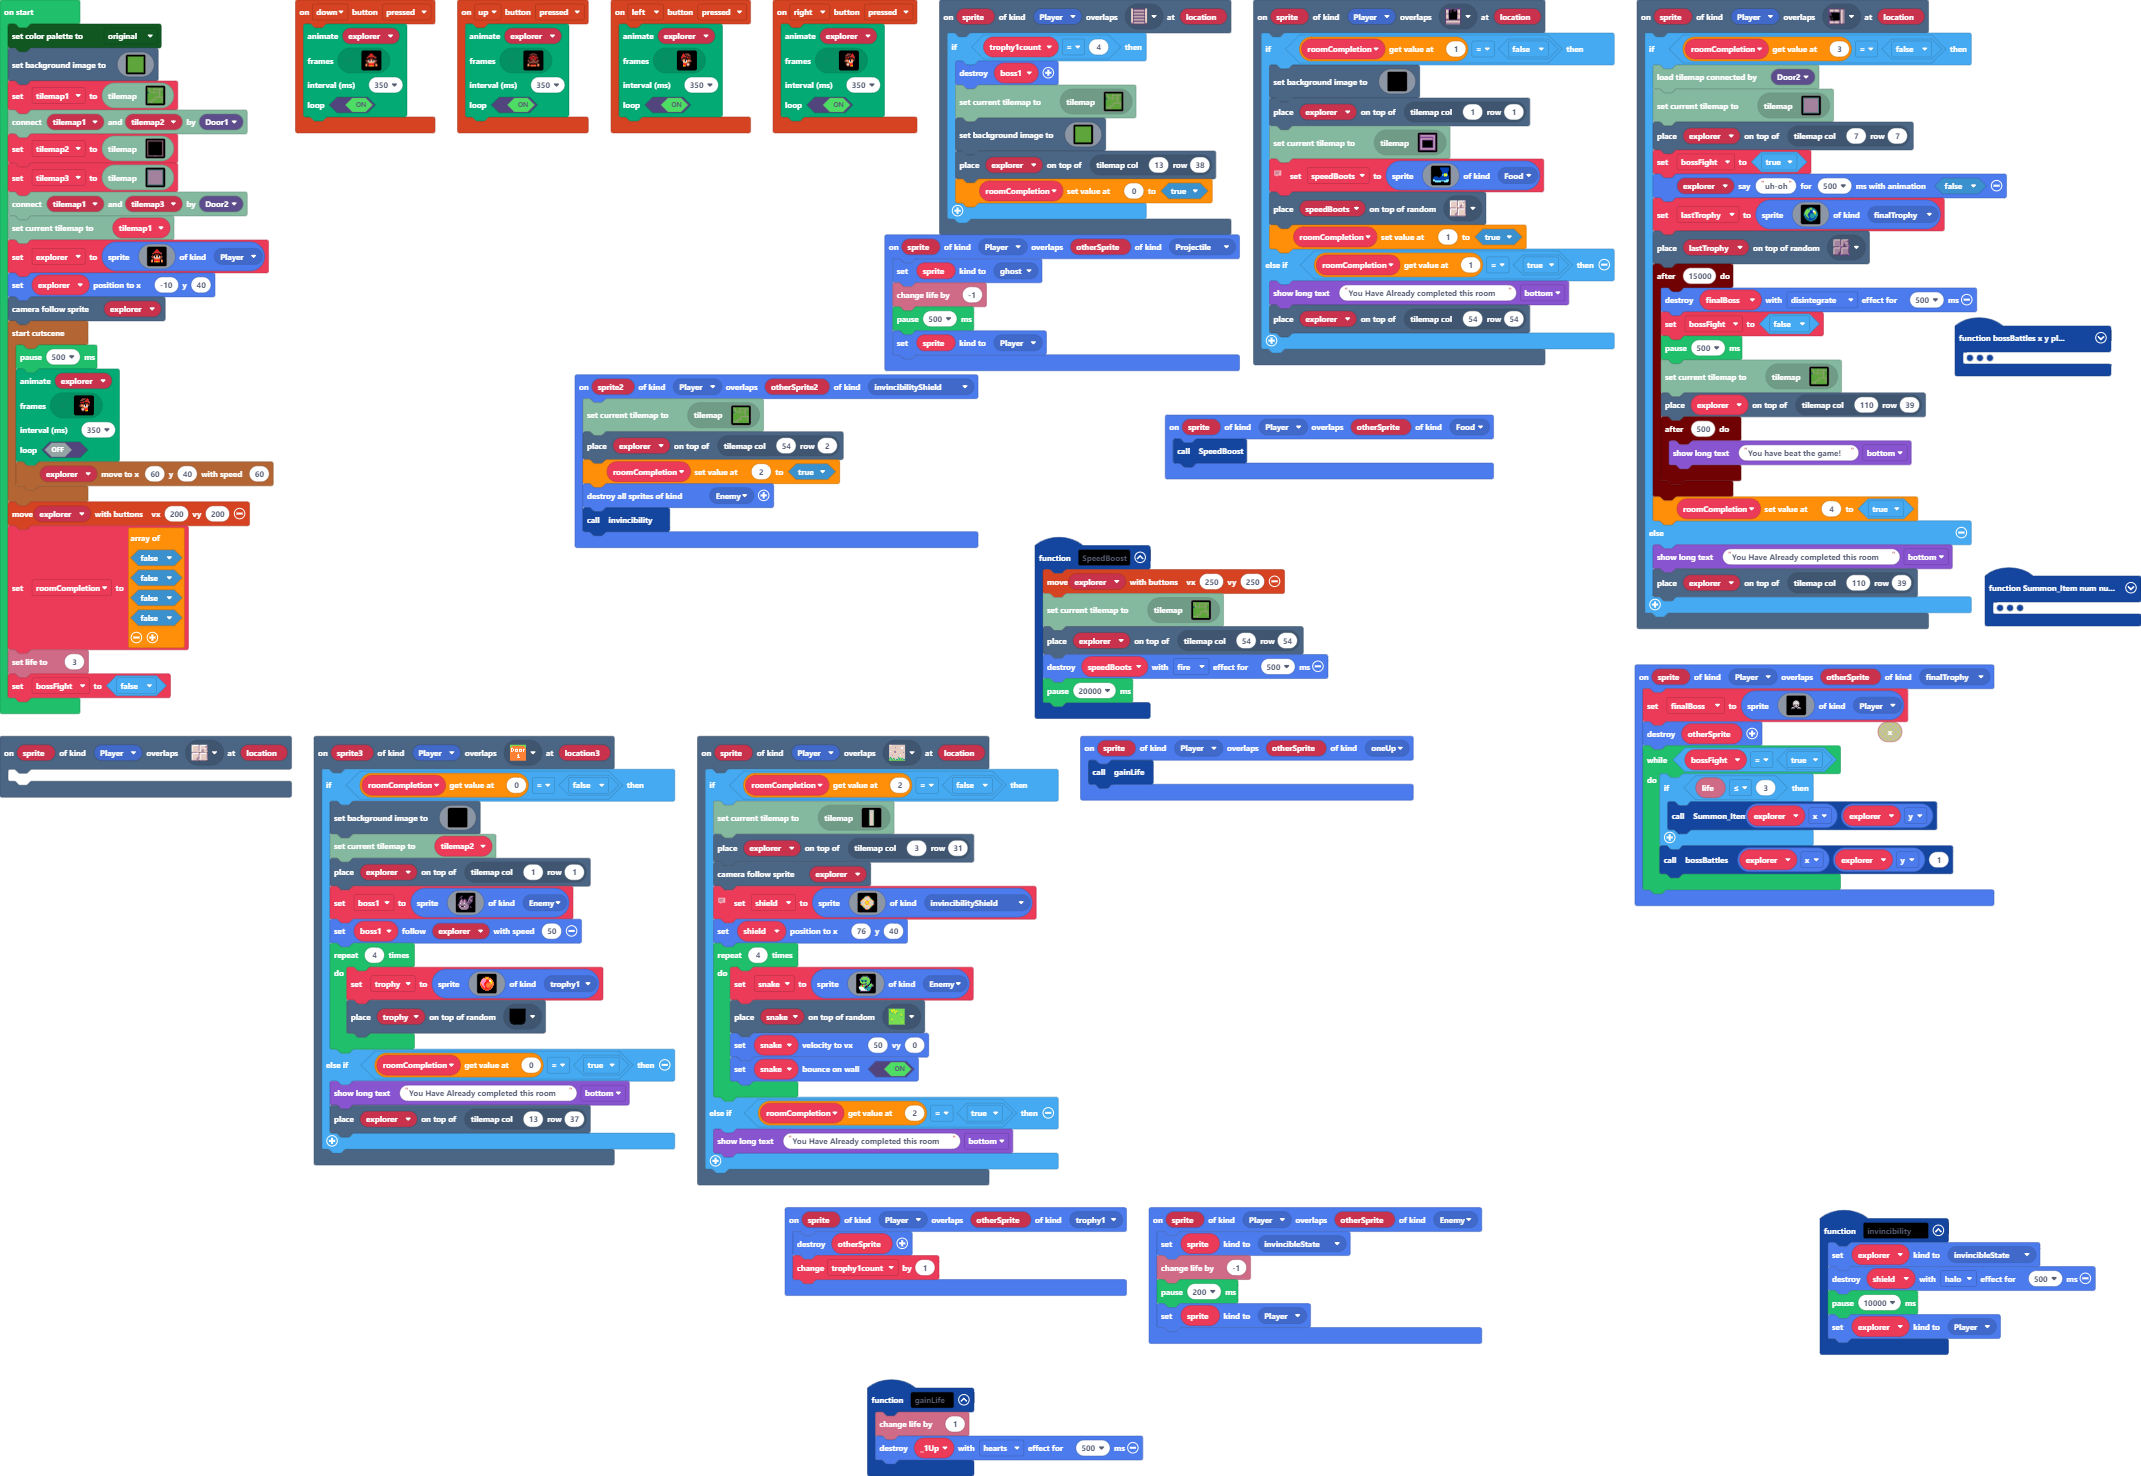
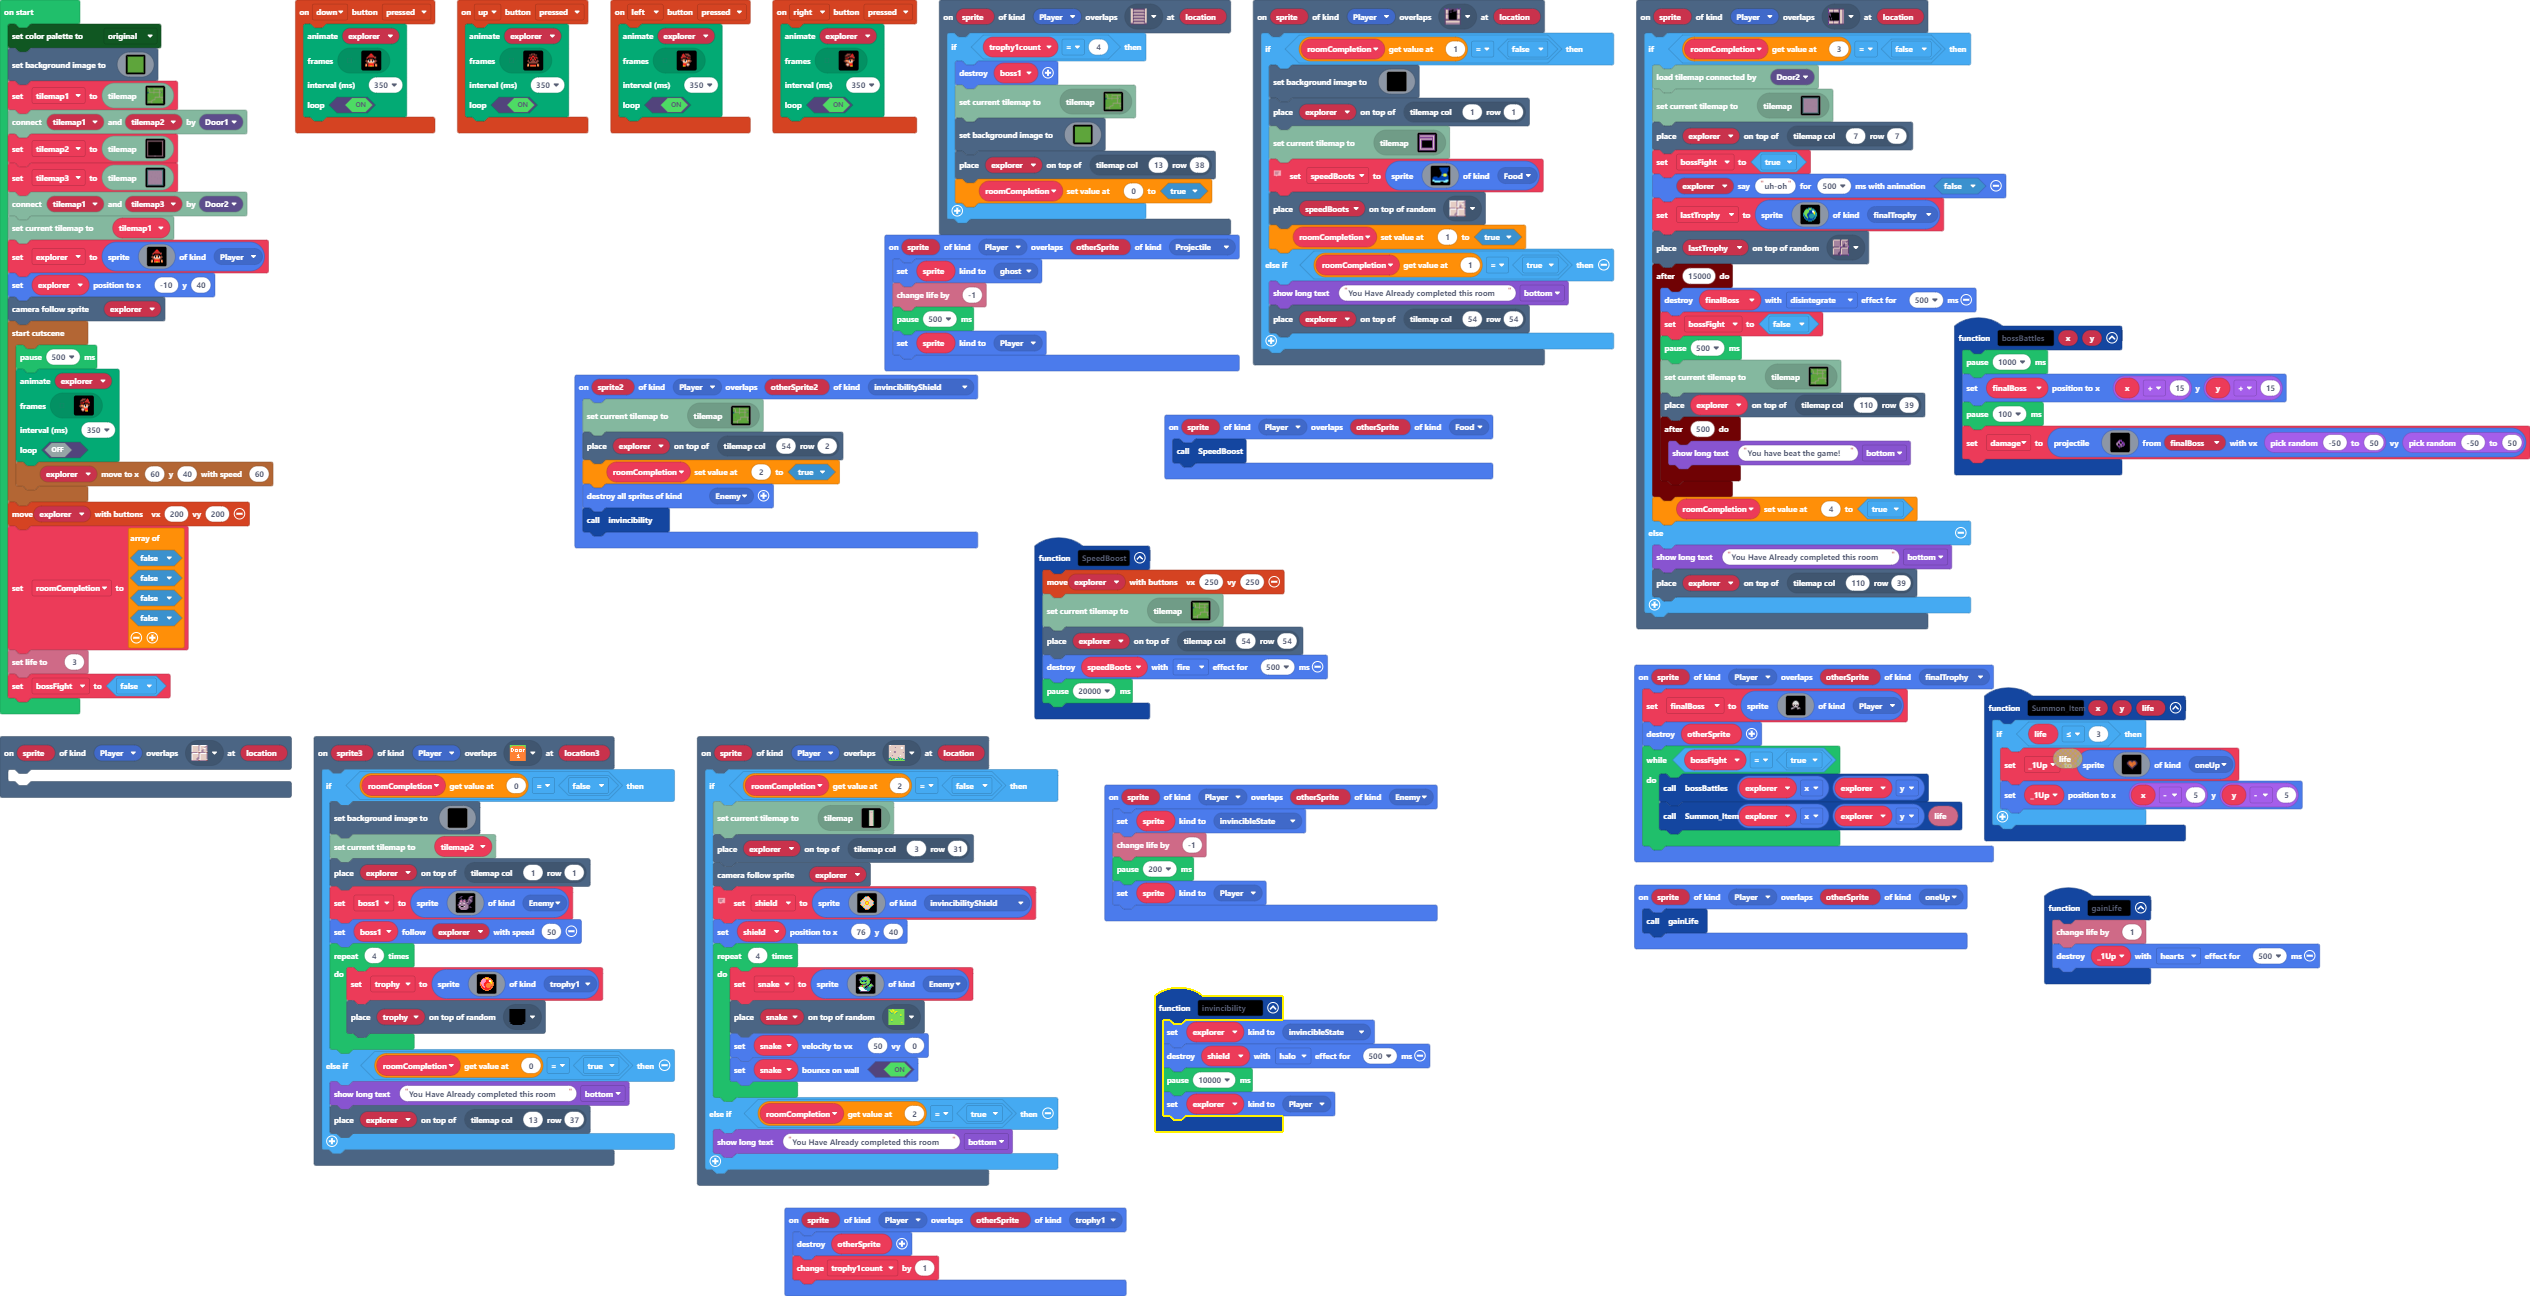
Update pxt.json, main.blocks, main.ts

diff --git a/main.ts b/main.ts
@@ -411,10 +411,8 @@ sprites.onOverlap(SpriteKind.Player, SpriteKind.finalTrophy, function (sprite, o
         `, SpriteKind.Player)
     otherSprite.destroy()
     while (bossFight == true) {
-        if (info.life() <= 3) {
-            Summon_Item(explorer.x, explorer.y)
-        }
-        bossBattles(explorer.x, explorer.y, 1)
+        bossBattles(explorer.x, explorer.y)
+        Summon_Item(explorer.x, explorer.y, info.life())
     }
 })
 scene.onOverlapTile(SpriteKind.Player, sprites.dungeon.doorOpenEast, function (sprite, location) {
@@ -932,30 +930,32 @@ scene.onOverlapTile(SpriteKind.Player, sprites.castle.tilePath8, function (sprit
         game.showLongText("You Have Already completed this room", DialogLayout.Bottom)
     }
 })
-function Summon_Item (num: number, num2: number) {
-    _1Up = sprites.create(img`
-        ....................
-        ....................
-        ....................
-        ....................
-        ....................
-        ......cccc.cccc.....
-        .....cc44ccc44cc....
-        ....cc4444c4444cc...
-        ....cc444444444cc...
-        ....cc444444444cc...
-        .....cc4444444cc....
-        ......cc44444cc.....
-        .......cc444cc......
-        ........cc4cc.......
-        .........ccc........
-        ..........c.........
-        ....................
-        ....................
-        ....................
-        ....................
-        `, SpriteKind.oneUp)
-    _1Up.setPosition(num - 5, num2 - 5)
+function Summon_Item (x: number, y: number, life: number) {
+    if (life <= 3) {
+        _1Up = sprites.create(img`
+            ....................
+            ....................
+            ....................
+            ....................
+            ....................
+            ......cccc.cccc.....
+            .....cc44ccc44cc....
+            ....cc4444c4444cc...
+            ....cc444444444cc...
+            ....cc444444444cc...
+            .....cc4444444cc....
+            ......cc44444cc.....
+            .......cc444cc......
+            ........cc4cc.......
+            .........ccc........
+            ..........c.........
+            ....................
+            ....................
+            ....................
+            ....................
+            `, SpriteKind.oneUp)
+        _1Up.setPosition(x - 5, y - 5)
+    }
 }
 sprites.onOverlap(SpriteKind.Player, SpriteKind.Food, function (sprite, otherSprite) {
     SpeedBoost()
@@ -968,7 +968,7 @@ sprites.onOverlap(SpriteKind.Player, SpriteKind.trophy1, function (sprite, other
     otherSprite.destroy()
     trophy1count += 1
 })
-function bossBattles (x: number, y: number, playerHealth: number) {
+function bossBattles (x: number, y: number) {
     pause(1000)
     finalBoss.setPosition(x + 15, y + 15)
     pause(100)
